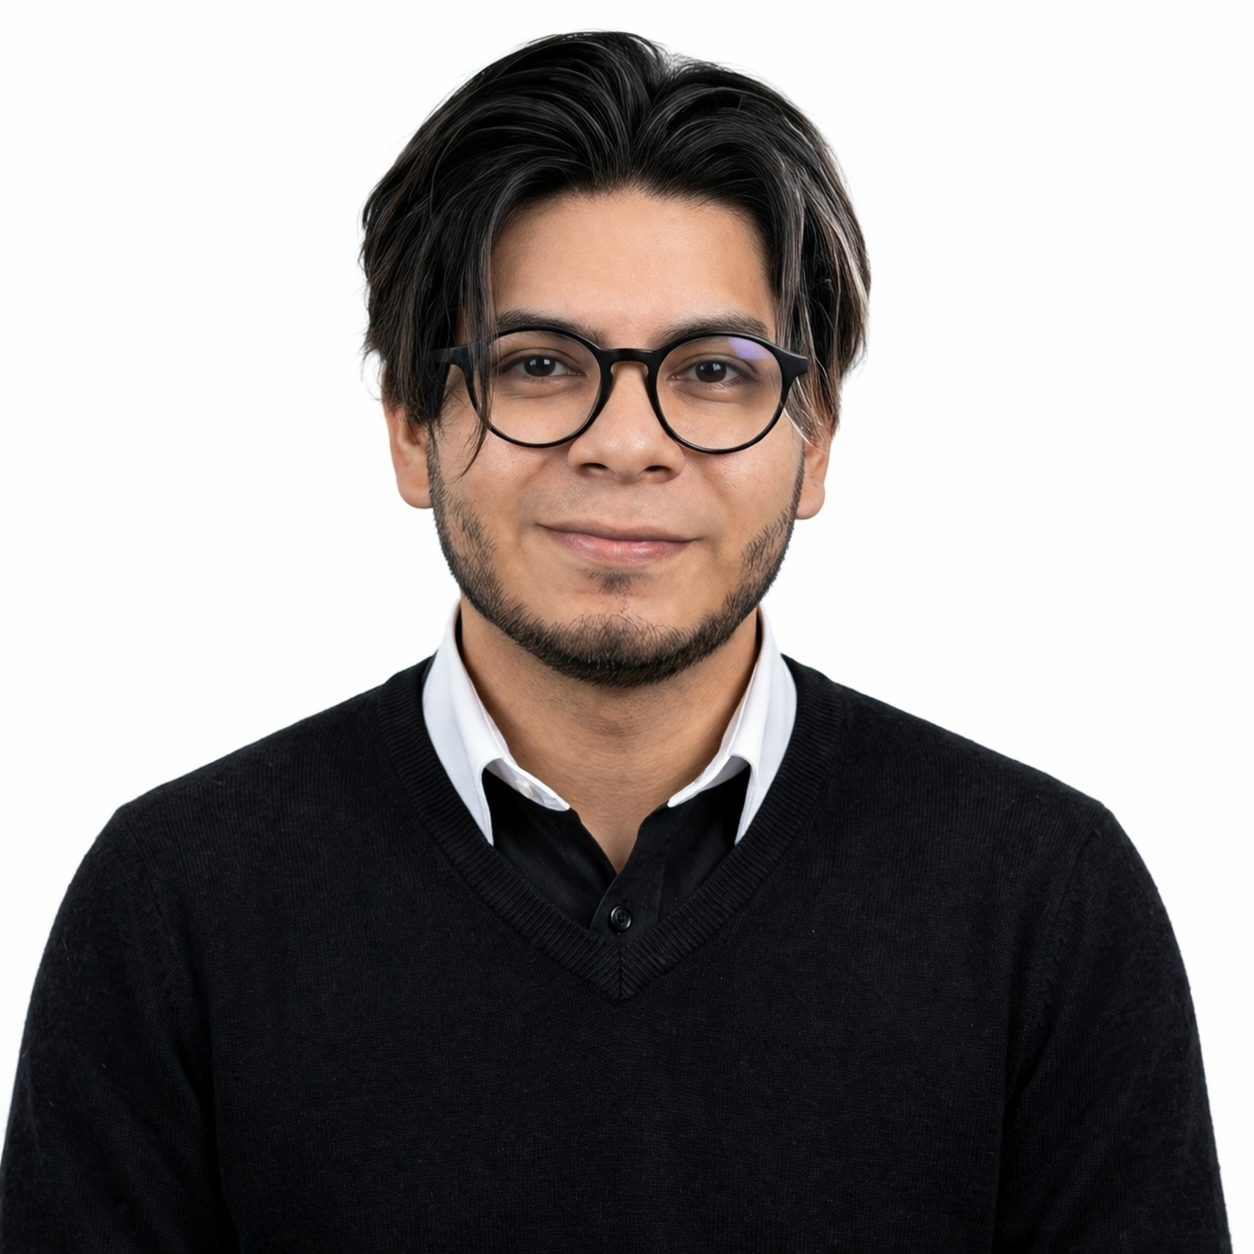
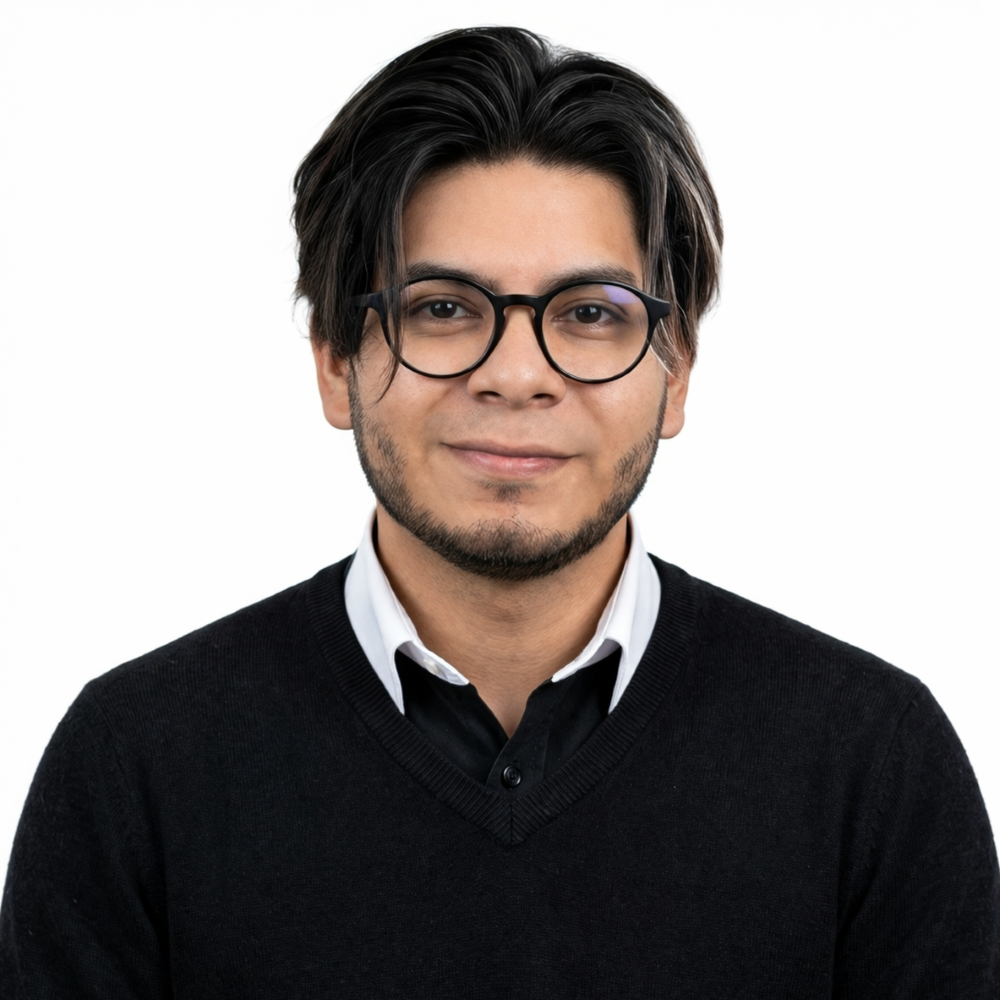
Usar la nueva foto de perfil y unificar su color entre temas
Cambia la foto de "Sobre mi" (circulo en Home y retrato en /about) a
la nueva dereck-mendez.png, mejor encuadrada que la version -cutout
anterior. Unifica --photo-filter en un solo valor para :root en vez
de uno por tema, para que el color de la foto se vea igual en modo
claro y oscuro; solo el fondo de la pagina cambia con el tema.

Changed region(s): [[0.031, 0.0, 1.0, 1.0], [0.0, 0.837, 0.031, 0.93], [0.0, 0.775, 0.031, 0.806]]

diff --git a/src/styles/global.css b/src/styles/global.css
@@ -34,7 +34,10 @@
   --gradient-ambient:
     radial-gradient(60% 50% at 78% 18%, rgba(91, 140, 255, 0.16), transparent 70%),
     radial-gradient(45% 40% at 12% 8%, rgba(155, 124, 255, 0.1), transparent 70%);
-  --photo-filter: grayscale(0.55) contrast(1.06) brightness(0.82);
+  /* Deliberately NOT redefined under [data-theme="light"] — Dereck wants the photo's
+     own color rendering identical in both themes; only the page background around it
+     should change. */
+  --photo-filter: grayscale(0.4) contrast(1.05) brightness(0.92);
   --star: #dce6ff;
   --edge: rgba(140, 175, 255, 0.3);
   --nebula-cloud-1: rgba(91, 140, 255, 0.5);
@@ -68,7 +71,6 @@
   --gradient-ambient:
     radial-gradient(60% 50% at 78% 16%, rgba(122, 85, 234, 0.1), transparent 70%),
     radial-gradient(48% 42% at 10% 6%, rgba(56, 96, 230, 0.07), transparent 70%);
-  --photo-filter: grayscale(0.25) contrast(1.02) brightness(1.02);
   --star: #2b3a66;
   --edge: rgba(60, 90, 190, 0.34);
   --nebula-cloud-1: rgba(255, 165, 110, 0.5);
